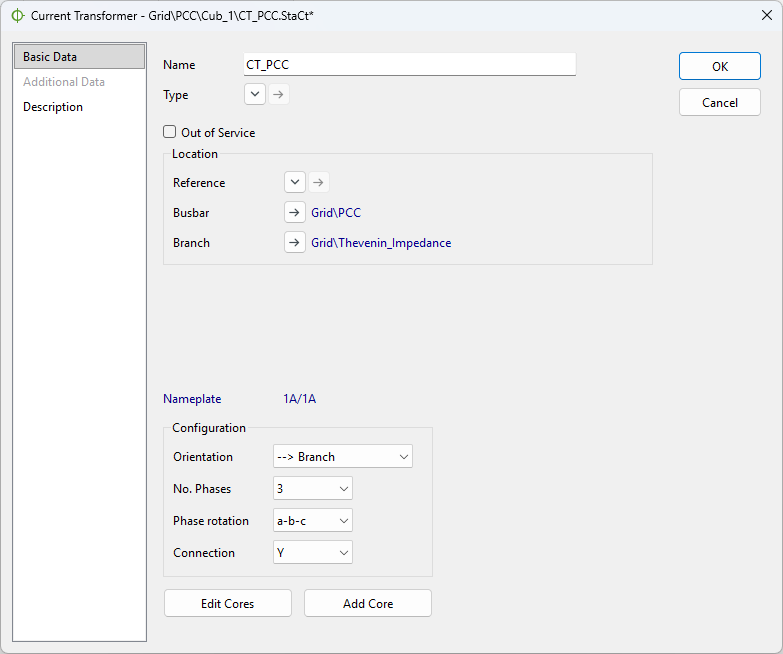
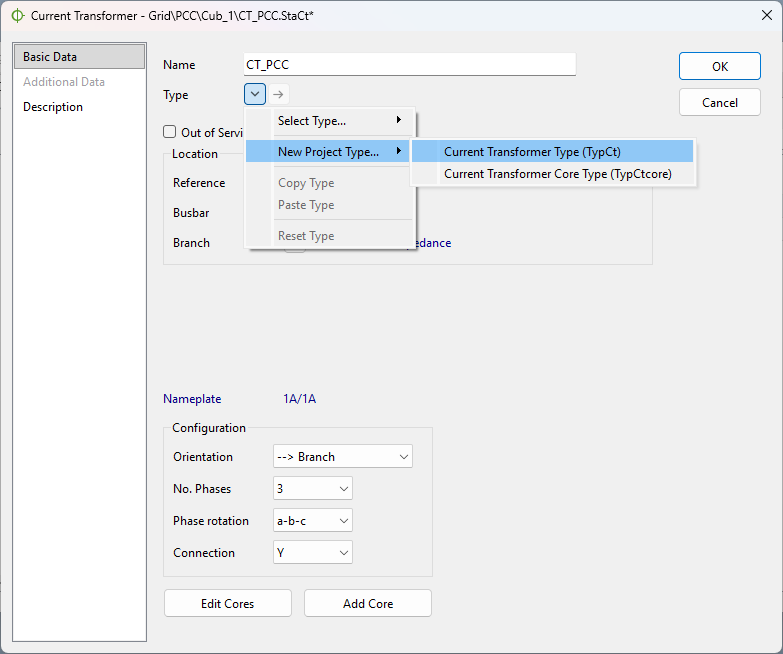
docs(PF)

diff --git a/docs/DLL_in_PF.rst b/docs/DLL_in_PF.rst
@@ -146,17 +146,11 @@ After creating the current transformer, open its configuration by double-clickin
 In the transformer configuration dialog, create a new transformer type and select Current Transformer Type (TypCt) (see Figure 14) and select Ideal Current Transformer (see Figure 15). 
 The ideal transformer is sufficient for the present application because the purpose of the component is to provide the required current measurements rather than to model the physical behavior of a transformer.
 
-.. container:: image-row
+.. figure:: ./images/PowerFactory/CT_PowerFactory4.png
+   :alt: Pop-up window for the definition of a current transformer type.
+   :height: 40vh
 
-   .. figure:: ./images/PowerFactory/CT_PowerFactory3.png
-      :alt: Pop-up window for the choice of the newly generated current transformer's type.
-
-      Figure 13: Pop-up window for the choice of the newly generated current transformer's type.
-
-   .. figure:: ./images/PowerFactory/CT_PowerFactory4.png
-      :alt: Pop-up window for the definition of a current transformer type.
-
-      Figure 14: Pop-up window for the definition of a current transformer type.
+   Figure 14: Pop-up window for the definition of a current transformer type.
 
 The voltage transformer is now connected to the cubicle of the PCC and can be used to obtain the three phase current signals required by the DLL (see Figure 16 - 18).
 
